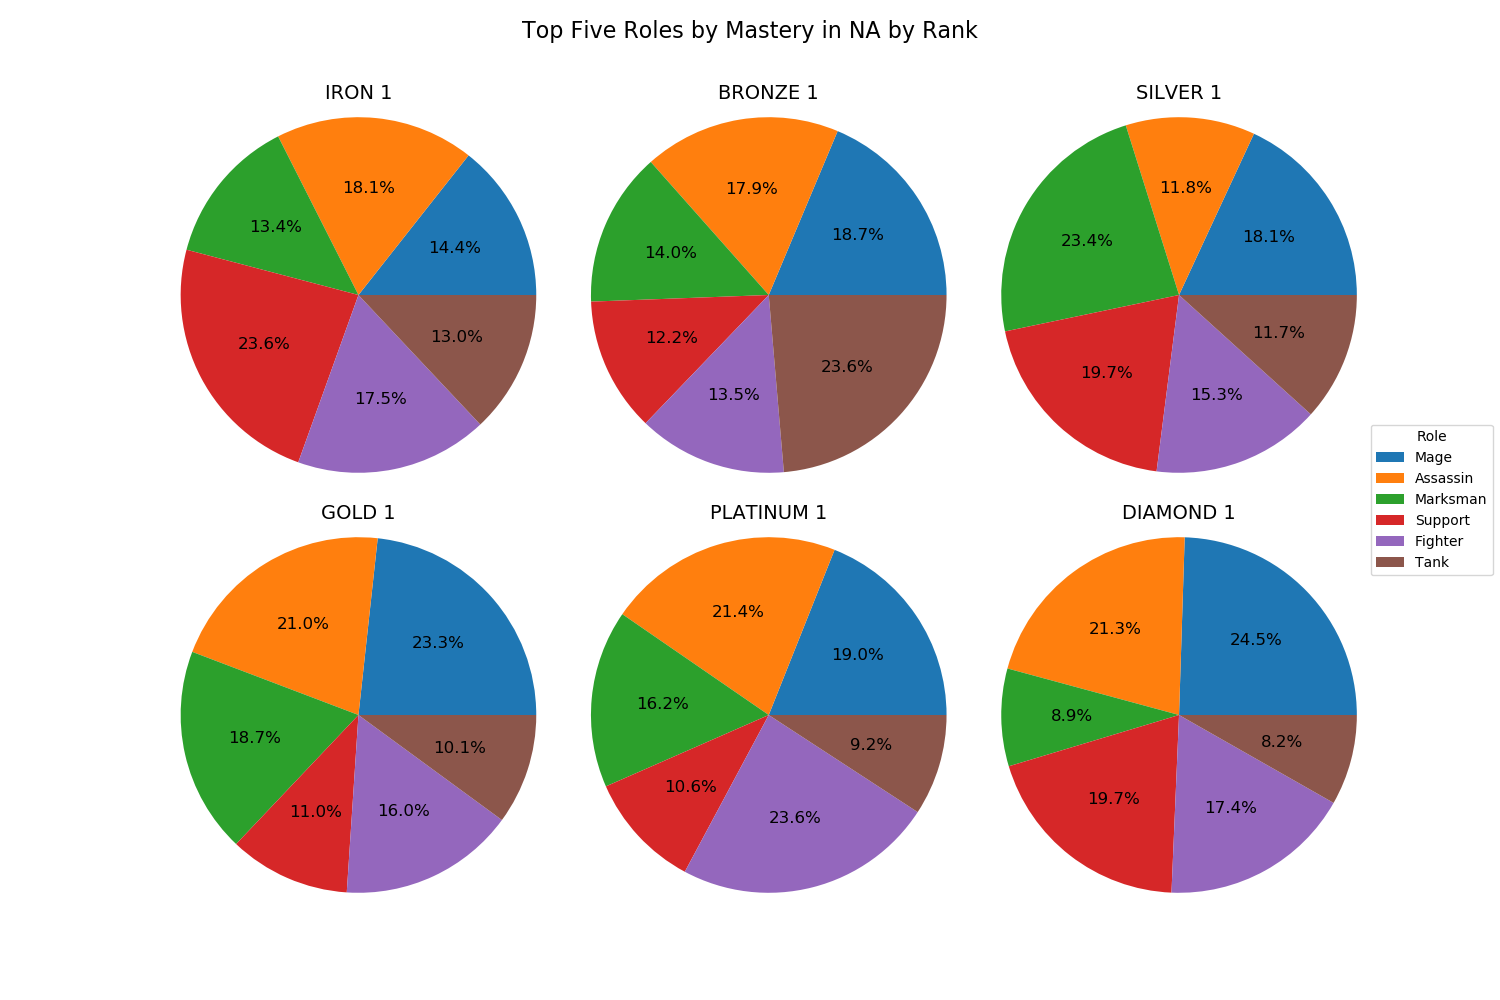
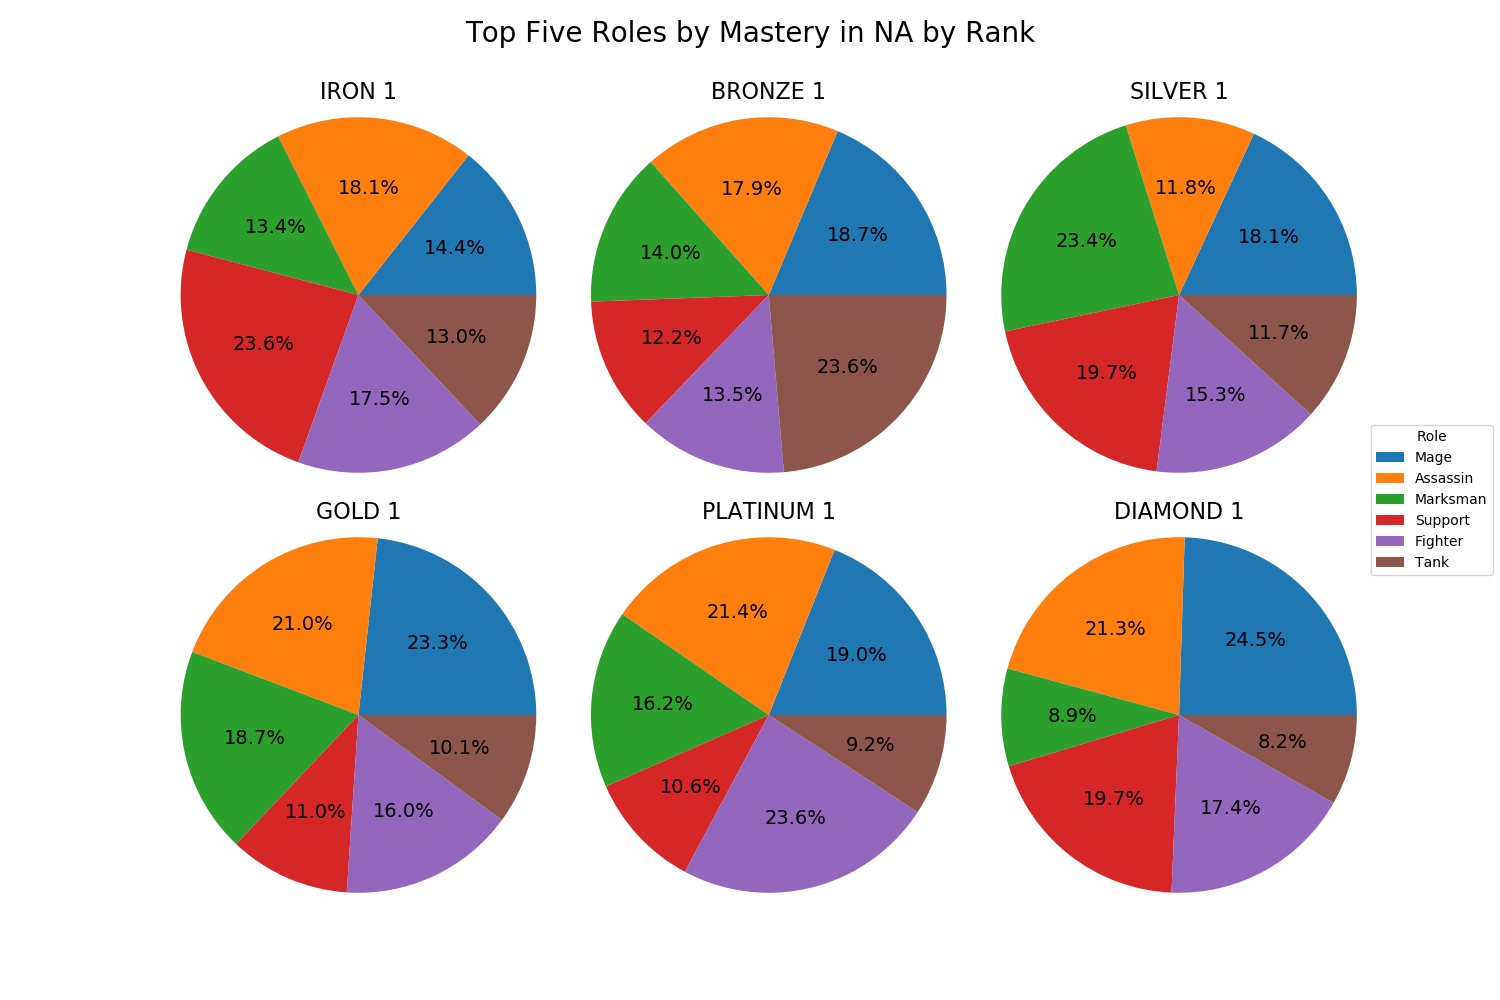
complete mastery analysis

diff --git a/scripts/produce_mastery_plots.py b/scripts/produce_mastery_plots.py
@@ -1,12 +1,26 @@
-import matplotlib.pyplot as plt
-from matplotlib.gridspec import GridSpec
 import seaborn as sns
 import numpy as np
 import pandas as pd
+import requests
+import matplotlib.pyplot as plt
+from matplotlib.gridspec import GridSpec
+from PIL import Image
+from io import BytesIO
 from mastery_gather import get_roles, get_top_champs
+
+"""
+produce_mastery_plots creates the plots used in our analysis of what champions
+and roles seem to do best in ranked play.
+There is a lot we could improve on in our analysis, as looking only at champion
+masteries strongly favors champions who have been out for longer (as a high
+mastery score can be built simply by playing a champion a lot).
+"""
 
 
 def plot_na_roles():
+    """
+    Creates two figures containing role distributions across all ranks in NA
+    """
     roles = ['Mage', 'Assassin', 'Marksman', 'Support', 'Fighter', 'Tank']
     all_fig, all_ax = plt.subplots(2, 3, figsize=(15, 10))
     main_fig, main_ax = plt.subplots(2, 3, figsize=(15, 10))
@@ -19,30 +33,33 @@ def plot_na_roles():
             all_roles = pd.Series(all_roles)
 
             all_ax[row, col].pie(all_roles, autopct='%1.1f%%', radius=1.3,
-                                 textprops=dict(color='k', size=12))
-            all_ax[row, col].set_title(league + ' ' + '1', y=1.05, size=14)
+                                 textprops=dict(color='k', size=14))
+            all_ax[row, col].set_title(league + ' ' + '1', y=1.05, size=16)
 
             main_roles = pd.Series(main_roles)
             main_ax[row, col].pie(main_roles, autopct='%1.1f%%', radius=1.3,
-                                  textprops=dict(color='k', size=12))
-            main_ax[row, col].set_title(league + ' ' + '1', y=1.05, size=14)
+                                  textprops=dict(color='k', size=14))
+            main_ax[row, col].set_title(league + ' ' + '1', y=1.05, size=16)
 
     all_fig.legend(roles, loc='center right', title='Role',
                    bbox_to_anchor=(1, 0.5))
-    all_fig.suptitle('Top Five Roles by Mastery in NA by Rank', fontsize=16)
+    all_fig.suptitle('Top Five Roles by Mastery in NA by Rank', fontsize=20)
 
     main_fig.legend(roles, loc='center right', title='Role',
                     bbox_to_anchor=(1, 0.5))
-    main_fig.suptitle('Main Roles by Mastery in NA by Rank', fontsize=16)
+    main_fig.suptitle('Main Roles by Mastery in NA by Rank', fontsize=20)
 
     all_fig.savefig('../img/all_roles_na.png')
     main_fig.savefig('../img/main_roles_na.png')
 
 
-def plot_na_champs():
+def produce_champ_rank_plot(mains, leagues):
+    """
+    Helper function for plot_na_champs. Actually creates the plot.
+    """
     # Is there a better way to do this?
-    bc_graph = plt.figure(figsize=(15, 10))
-    gs = GridSpec(2, 6, wspace=1, hspace=0.5, figure=bc_graph)
+    bc_graph = plt.figure(figsize=(22.5, 15))
+    gs = GridSpec(2, 6, wspace=1, hspace=0.2, figure=bc_graph)
     ax1 = bc_graph.add_subplot(gs[0, 0:2])
     ax2 = bc_graph.add_subplot(gs[0, 2:4])
     ax3 = bc_graph.add_subplot(gs[0, 4:6])
@@ -54,49 +71,94 @@ def plot_na_champs():
     color_codes = ['fuchsia', 'cerulean', 'mustard yellow',
                    'crimson', 'pink red']
     color_codes = dict(zip(beginner_champs, color_codes))
-    beginner_champs = dict(zip(beginner_champs, axes))
+    axes = dict(zip(beginner_champs, axes))
 
+    for champ in beginner_champs:
+        sns.lineplot(data=mains[champ], ax=axes[champ],
+                     color=sns.xkcd_rgb[color_codes[champ]], lw=3)
+        axes[champ].set_title(champ, size=16)
+        axes[champ].set_ylabel('Percentage who Play (%)')
+        axes[champ].set_xlabel('Rank')
+        axes[champ].set(ylim=(0, 5))
+        axes[champ].set(xticks=[i for i in range(1, len(leagues) + 1)])
+        axes[champ].set(xticklabels=leagues)
+    bc_graph.suptitle('Players who Main Beginner Champions, By Rank (NA)',
+                      fontsize=20)
+    bc_graph.savefig('../img/beginner_champs_na.png')
+
+
+def produce_champ_pop_plot(pop_freq, purpose, dest):
+    """
+    Helper function for plot_na_champs and plot_region_champs.
+    Actually creates the figure
+    """
+    pop_freq = pd.DataFrame.from_dict(pop_freq, orient='index').reset_index()
+    pop_freq.columns = ['champ', 'freq']
+    pop_freq = pop_freq.groupby('freq')['champ'].apply(list)
+    pop_freq = pop_freq.sort_index(ascending=False).head(3)
+    ncol = pop_freq.apply(len).max()
+    nrow = pop_freq.shape[0]
+
+    pop_champs = plt.figure(figsize=(ncol*3, 9))
+    gs = GridSpec(nrow, ncol, wspace=0.5)
+    for row, li in enumerate(pop_freq):
+        for col, champion in enumerate(li):
+            ax = pop_champs.add_subplot(gs[row, col])
+            r = requests.get('http://ddragon.leagueoflegends.com' +
+                             '/cdn/9.10.1/img/champion/' + champion + '.png')
+            ax.imshow(Image.open(BytesIO(r.content)), interpolation='none')
+            ax.set_title(champion, size=16)
+            ax.set_xticks([])
+            ax.set_yticks([])
+            if col == 0:
+                ax.set_ylabel(pop_freq.index[row], rotation=0,
+                              labelpad=25, size=20)
+    pop_champs.suptitle('Cumulative High Champion\nPopularity for ' + purpose,
+                        size=20)
+    pop_champs.savefig('../img/pop_champs_' + dest + '.png')
+
+
+def plot_na_champs():
+    """
+    Saves two figures as images.
+    First figure shows the proportion of players who main
+    beginner champions (who can be obtained for free after
+    finishing the game tutorial) in each rank.
+    Second figure shows a list of the most popular champions
+    among all ranks in NA. Popularity was determined by the number
+    of times the champion was among the top among the top five most mained
+    champions by mastery in each rank.
+    """
     leagues = ['IRON', 'BRONZE', 'SILVER', 'GOLD', 'PLATINUM', 'DIAMOND']
     mains = pd.DataFrame()
     pop_freq = dict()
 
-    def record_freq(col):
+    for league in leagues:
+        mains[league] = get_top_champs(target=(league, 'I', 'NA1'))
+        mains[league] = mains[league] / mains[league].sum() * 100
+
+    def record_pop_freq(col):
         col = col.sort_values(ascending=False).head(5)
         for champ in col.index:
             if champ not in pop_freq:
                 pop_freq[champ] = 0
             pop_freq[champ] += 1
 
-    for league in leagues:
-        mains[league] = get_top_champs(target=(league, 'I', 'NA1'))
-        mains[league] = mains[league] / mains[league].sum() * 100
-
-    mains.apply(record_freq)
-    mains.columns = [i for i in range(1, 7)]
+    mains.apply(record_pop_freq)
+    mains.columns = [i for i in range(1, len(leagues) + 1)]
     mains = mains.transpose()
 
-    for champ in beginner_champs:
-        sns.lineplot(data=mains[champ], ax=beginner_champs[champ],
-                     color=sns.xkcd_rgb[color_codes[champ]], lw=3)
-        beginner_champs[champ].set_title(champ)
-        beginner_champs[champ].set_ylabel('Percentage who Play (%)')
-        beginner_champs[champ].set_xlabel('Rank')
-        beginner_champs[champ].set(ylim=(0, 5))
-        beginner_champs[champ].set(xticks=leagues)
-    bc_graph.suptitle('Players who Main Beginner Champions, By Rank (NA)',
-                      fontsize=16)
-    bc_graph.savefig('../img/beginner_champs_na.png')
-
-    # return pd.Series(pop_freq).sort_values()
+    produce_champ_rank_plot(mains, leagues)
+    produce_champ_pop_plot(pop_freq, 'All Ranks in NA', 'na')
 
 
 def plot_region_roles():
     roles = ['Mage', 'Assassin', 'Marksman', 'Support', 'Fighter', 'Tank']
     all_fig, all_ax = plt.subplots(2, 3, figsize=(15, 10))
-    main_fig, main_ax = plt.subplots(2, 3)
+    main_fig, main_ax = plt.subplots(2, 3, figsize=(15, 10))
     targets = np.array([[('SILVER', 'I', 'NA1'), ('SILVER', 'I', 'KR'),
                          ('SILVER', 'I', 'EUW1')],
-                       [('GOLD', 'IV', 'EUW1'), ('GOLD', 'IV', 'EUW1'),
+                       [('GOLD', 'IV', 'NA1'), ('GOLD', 'IV', 'KR'),
                         ('GOLD', 'IV', 'EUW1')]], dtype=object)
     for row in range(2):
         for col in range(3):
@@ -106,34 +168,72 @@ def plot_region_roles():
             league, division, region = targets[row, col]
 
             all_ax[row, col].pie(all_roles, autopct='%1.1f%%', radius=1.3,
-                                 textprops=dict(color='k', size=12))
+                                 textprops=dict(color='k', size=14))
             all_ax[row, col].set_title(region + ' ' + league + ' ' +
-                                       division, y=1.05, size=14)
+                                       division, y=1.05, size=16)
 
             main_roles = pd.Series(main_roles)
             main_ax[row, col].pie(main_roles, autopct='%1.1f%%', radius=1.3,
-                                  textprops=dict(color='k', size=12))
+                                  textprops=dict(color='k', size=14))
             main_ax[row, col].set_title(region + ' ' + league + ' ' +
-                                        division, y=1.05, size=14)
+                                        division, y=1.05, size=16)
 
     all_fig.legend(roles, loc='center right', title='Role',
                    bbox_to_anchor=(1, 0.5))
     all_fig.suptitle('Average Top Five Roles by Mastery Across Regions',
-                     fontsize=16)
+                     fontsize=20)
 
     main_fig.legend(roles, loc='center right', title='Role',
                     bbox_to_anchor=(1, 0.5))
     main_fig.suptitle('Average Main Roles by Mastery Across Regions',
-                      fontsize=16)
+                      fontsize=20)
 
     all_fig.savefig('../img/all_roles_region.png')
     main_fig.savefig('../img/main_roles_region.png')
 
 
+def plot_region_champs():
+    """
+    Saves three figures as images.
+    First figure shows a list of the most popular champions
+    among 'average' players (SILVER I and GOLD IV) in NA.
+    Popularity was determined by the number of times the champion was
+    among the top among the top five most mained champions by mastery in
+    each examined rank.
+    The second and third figures are the same, but for KR and EUW.
+    """
+    na = [('GOLD', 'IV', 'NA1'), ('SILVER', 'I', 'NA1')]
+    kr = [('GOLD', 'IV', 'KR'), ('SILVER', 'I', 'KR')]
+    euw = [('GOLD', 'IV', 'EUW1'), ('SILVER', 'I', 'EUW1')]
+    regions = [('NA', na), ('KR', kr), ('EUW', euw)]
+
+    for region in regions:
+        mains = pd.DataFrame()
+        pop_freq = dict()
+        targets = region[1]
+
+        for target in targets:
+            league = target[0]
+            mains[league] = get_top_champs(target=target)
+
+        def record_pop_freq(col):
+            col = col.sort_values(ascending=False).head(5)
+            for champ in col.index:
+                if champ not in pop_freq:
+                    pop_freq[champ] = 0
+                pop_freq[champ] += 1
+
+        mains.apply(record_pop_freq)
+
+        produce_champ_pop_plot(pop_freq, 'Average Ranks in ' + region[0],
+                               region[0].lower() + '_avg')
+
+
 def main():
     # plot_na_roles()
-    plot_na_champs()
-    # plot_region_roles()
+    # plot_na_champs()
+    plot_region_roles()
+    # plot_region_champs()
 
 
 if __name__ == '__main__':

diff --git a/scripts/mastery_gather.py b/scripts/mastery_gather.py
@@ -2,6 +2,14 @@ import pandas as pd
 import numpy as np
 import ast
 
+"""
+mastery_gather extracts the relevant information from the champion
+mastery columns of the collected datasets.
+This information includes champion name and champion role.
+The purpose of gathering this information is to answer the questions
+on which champions and roles do best for climbing the ranks.
+"""
+
 
 def extract_feature(data, feature):
     """
